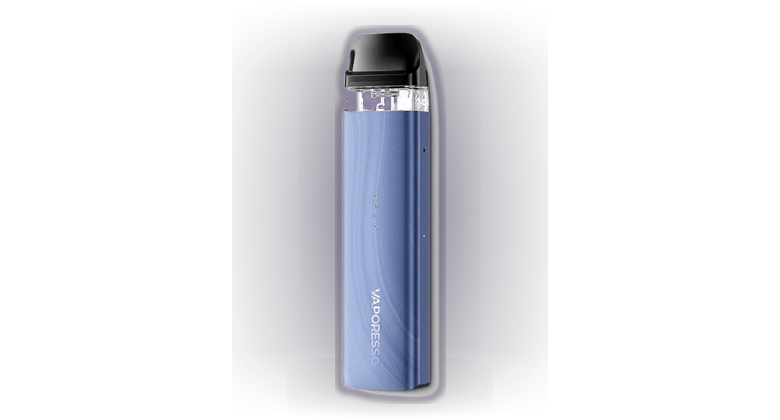
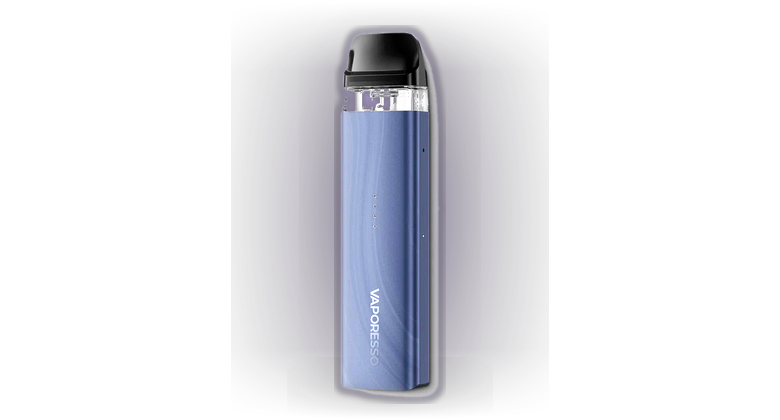
dev17 XROS MINI: восстановлен силуэт Matte Silver (автокеинг съедал левую половину корпуса); общий силуэт для всех цветов; кэш 20261011f

Changed region(s): [[0.4615, 0.1548, 0.5538, 0.8976], [0.4615, 0.681, 0.4923, 0.8357], [0.4308, 0.1238, 0.4615, 0.2167]]

diff --git a/index.html b/index.html
@@ -5,7 +5,7 @@
 <meta name="viewport" content="width=device-width, initial-scale=1, maximum-scale=1, user-scalable=no">
 <title>VapeOasis — мини-приложение</title>
 <script src="https://telegram.org/js/telegram-web-app.js"></script>
-<link rel="stylesheet" href="style.css?v=20261011e">
+<link rel="stylesheet" href="style.css?v=20261011f">
 </head>
 <body>
 <div id="fx"></div>
@@ -82,7 +82,7 @@
 
 <div class="sheet" id="sheet"><div class="in" id="sheetIn"></div></div>
 
-<script src="products.js?v=20261011e"></script>
-<script src="app.js?v=20261011e"></script>
+<script src="products.js?v=20261011f"></script>
+<script src="app.js?v=20261011f"></script>
 </body>
 </html>

diff --git a/app.js b/app.js
@@ -20,7 +20,7 @@ let discountPick = localStorage.getItem("vo_disc") || null; // жижа, на к
 
 const $ = s=>document.querySelector(s);
 const money = n=>n+"₽";
-const IMG_VER = "20261011e";
+const IMG_VER = "20261011f";
 const imgv = u => u ? (u.indexOf("?")>=0 ? u : u+"?v="+IMG_VER) : u;
 const byId = id=>PRODUCTS.find(p=>p.id===id);
 const catEmoji = c=>({liquids:"🧪",pods:"🔌",disposable:"💨",cartridges:"♻",snus:"📦"}[c]||"•");
